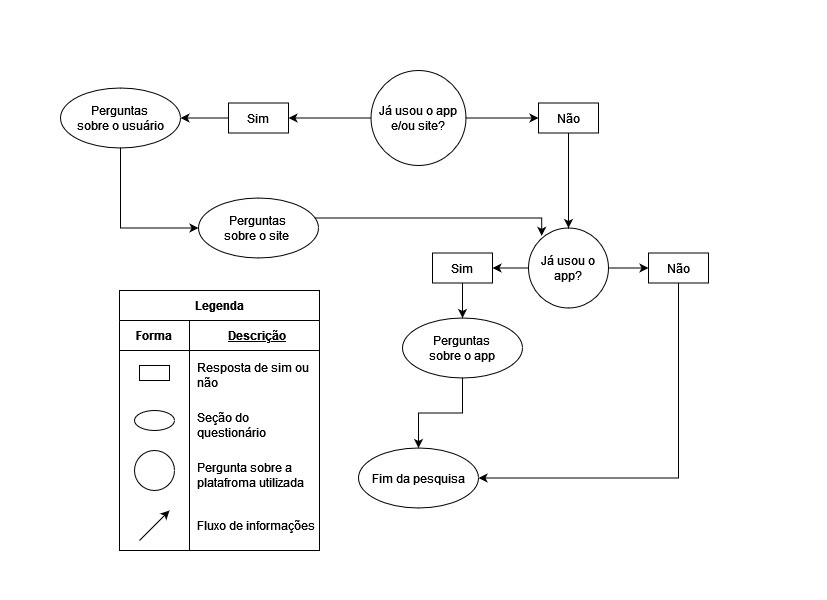
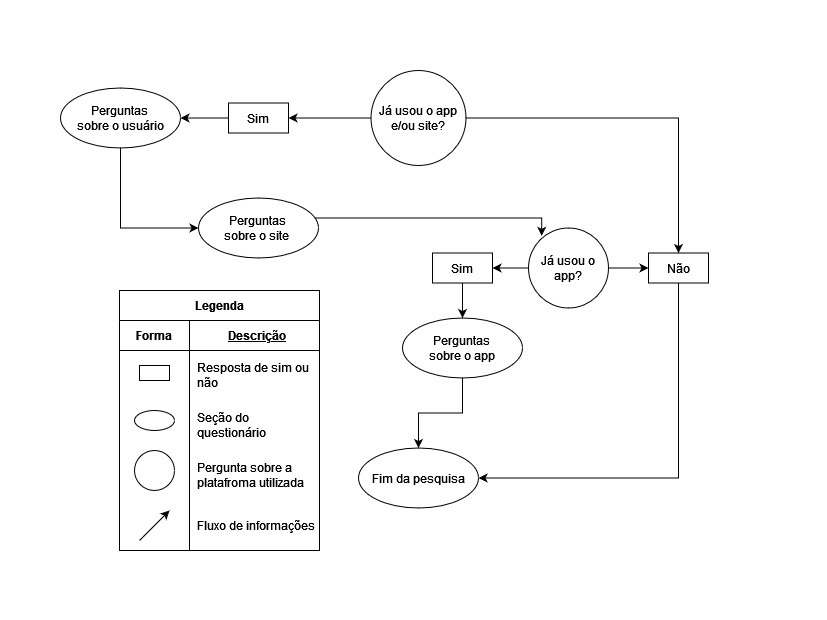
fixed quiz flow chart and implementation column

diff --git a/docs/elicitacao/tecnicas/questionario.md b/docs/elicitacao/tecnicas/questionario.md
@@ -160,8 +160,8 @@ Legenda Requisitos das tabelas:
 | Q07 | A opção de filtrar encomendas deve ser de fácil acesso (até 2 frames de ajuda a partir da página de encomendas) | RNF01 | Sim |
 | Q08 | O aplicativo deve notificar o usuário com eficácia (deve enviar uma notificação 100% das vezes em que houver uma atualização sobre qualquer encomenda) | RFN02 | Não |
 | Q09 | As informações sobre o rastreio de encomendas devem ser precisas (fornecem data, hora e local em cada atualização da encomenda) | RNF03 | Sim |
-| Q10 | O usuário deve estar satisfeito com a aplicação (Caso seja solicitado, mais de 70% dos usuários devem atribuir uma nota igual ou maior que 3 - em uma escala de 1 a 5 - ao recomendar o aplicativo dos Correios a um amigo) | RNF04 | Sim |
-| Q11 | A opção de rastrear encomendas deve ser de fácil acesso (deve estar na página principal e o usuário não deve demorar mais de 2 minutos para achá-la) | RNF05 | Sim |
+| Q10 | O usuário deve estar satisfeito com a aplicação (Caso seja solicitado, mais de 70% dos usuários devem atribuir uma nota igual ou maior que 3 - em uma escala de 1 a 5 - ao recomendar o aplicativo dos Correios a um amigo) | RNF04 | Não |
+| Q11 | A opção de rastrear encomendas deve ser de fácil acesso (deve estar na página principal e o usuário não deve demorar mais de 2 minutos para achá-la) | RNF05 | Não |
 | Q12 | O chat com o entregador deve ser confiável (as mensagens devem ser arquivadas por um período de até 1 ano) | RNF06 | Não |
 
 </center>
@@ -182,3 +182,4 @@ Legenda Requisitos das tabelas:
 | Versão | Data | Descrição | Autor(es) | Revisor(es) |
 | :----: | :--: | --------- | ----------- | ------ |
 | `1.0`  | 17/04/2024 | Criação do documento | [Gabriel F. J. Silva](https://github.com/MMcLovin) e [Gabriel B. Bertolazi](https://github.com/BErtolazi)| [Danilo Carvalho](https://github.com/Danilo-Carvalho-Antunes) |
+| `1.1`  | 01/05/2024 | Correção do diagrama do questionário e coluna de implementação dos requisitos | [Gabriel F. J. Silva](https://github.com/MMcLovin) | [](https://github.com/) |
